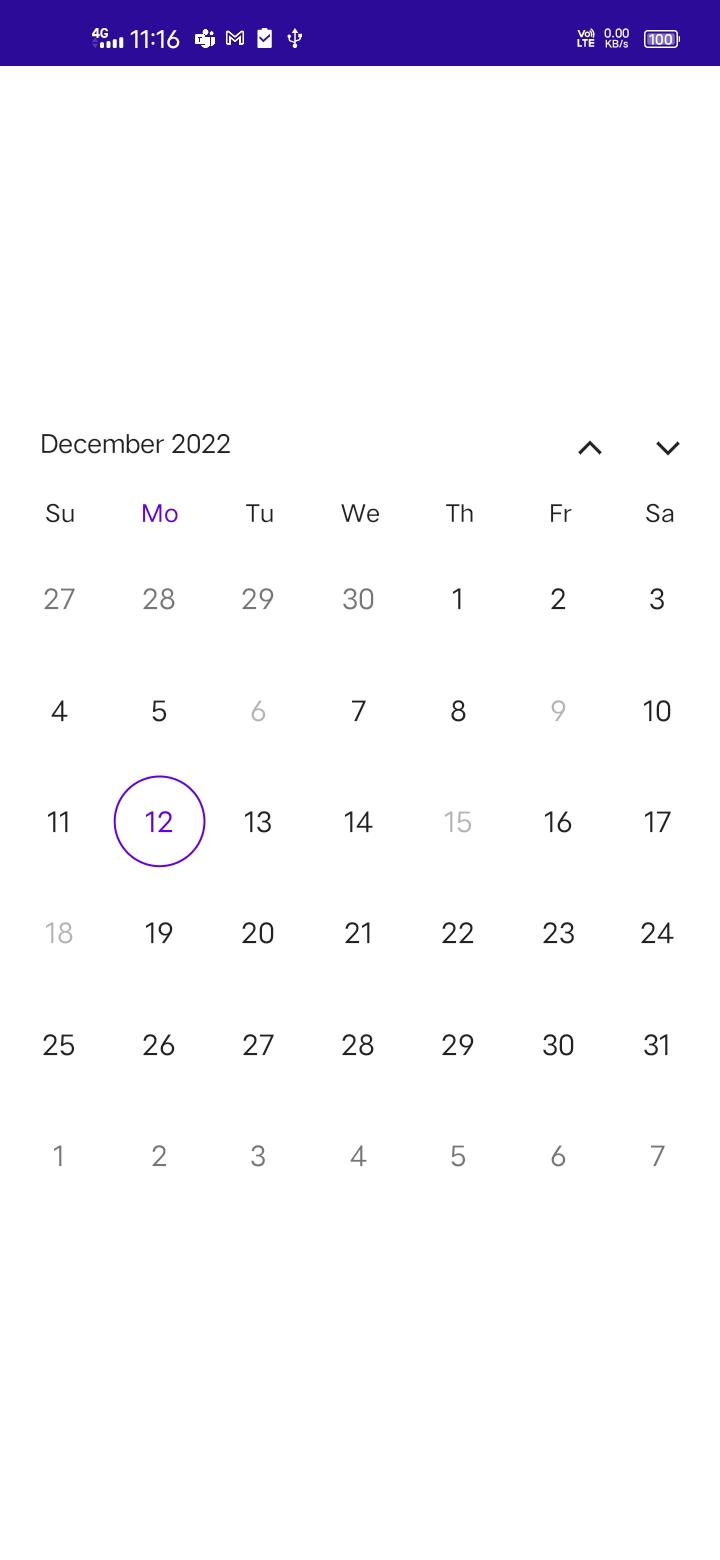
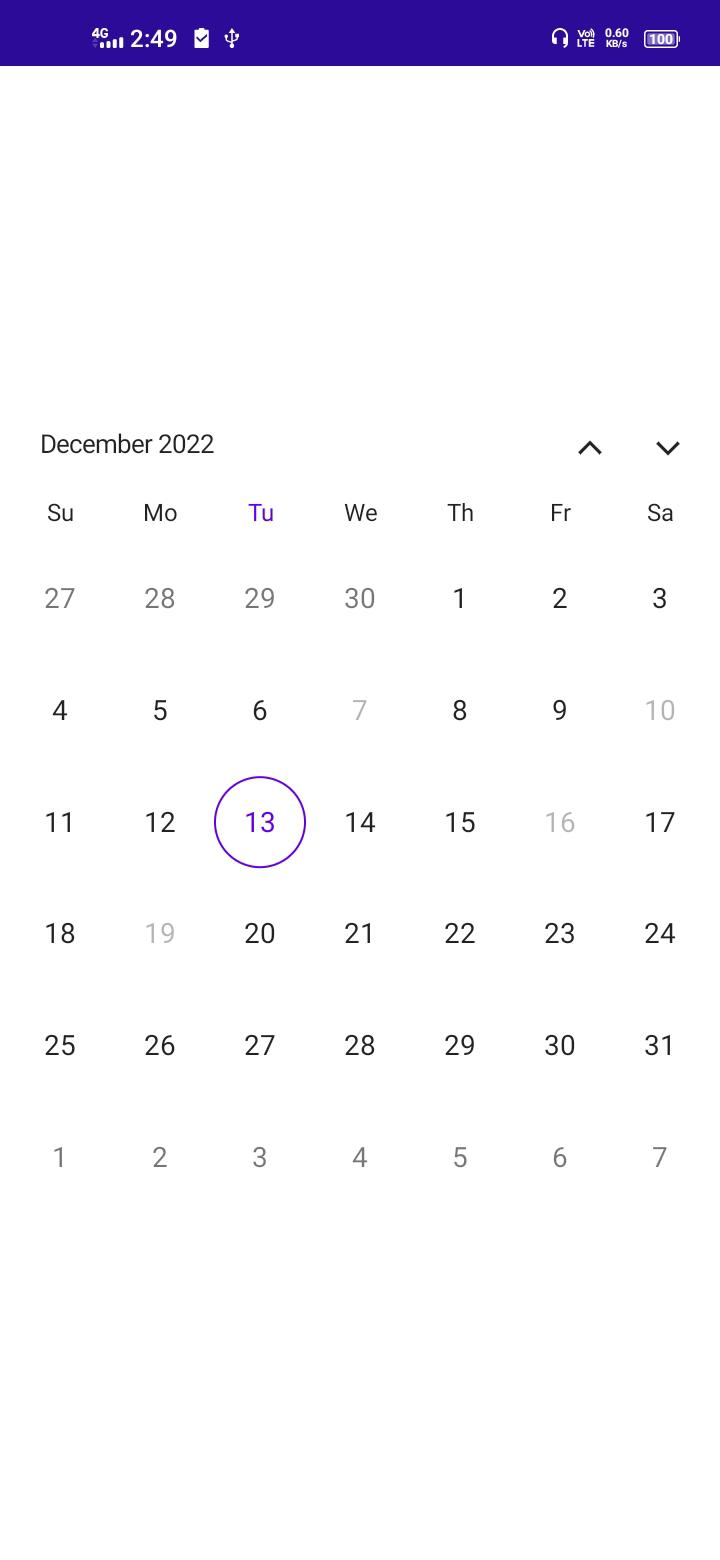
MAUI-3660-Images replaced

diff --git a/MAUI/Calendar/overview.md b/MAUI/Calendar/overview.md
@@ -9,70 +9,72 @@ documentation: ug
 
 # Overview of .NET MAUI Calendar (SfCalendar)
 
-The Syncfusion .NET MAUI Calendar (SfCalendar) is a lightweight calendar control that allows user to easily select a single, multiple and a range of dates. It provides month, year, decade, and century view options to quickly navigate to the desired date. It supports minimum, maximum, enable past dates and disabled dates to restrict date selection.
+The Syncfusion .NET MAUI Calendar (SfCalendar) is a lightweight calendar control that allows user to easily select a Single, Multiple and a Range of dates. It offers Month, Year, Decade, and Century view options to quickly navigate to the desired date. To restrict the date selection by using the minimum, maximum, enable past dates, and disabled dates.
 
 
 ## Key features
 
-* **Multiple calendar views**: Display month, year, decade, and century views that allows user to easily select and navigate between built-in views. Supports programmatic navigation.
+* **Multiple calendar views**: The user can easily select and switch between the built-in month, year, decade, and century views by displaying them. Supports programmatic navigation.
 
-{% multiple_column %}
-{% column %}
-![monthview-in-maui-calendar](images/overview/MultipleViews/monthview-in-maui-calendar.png)
-{% endcolumn}
-{% column %}
-![yearview-in-maui-calendar](images/overview/MultipleViews/yearview-in-maui-calendar.png)
-{% endcolumn}
-{% column %}
-![decadeview-in-maui-calendar](images/overview/MultipleViews/decadeview-in-maui-calendar.png)
-{% endcolumn}
-{% column %}
-![centuryview-in-maui-calendar](images/overview/MultipleViews/centuryview-in-maui-calendar.png)
-{% endcolumn}
-{% endmultiple_column %}
+   {% multiple_column %}
+   {% column %}
+   ![monthview-in-maui-calendar](images/overview/MultipleViews/monthview-in-maui-calendar.png)
+   {% endcolumn}
+   {% column %}
+   ![yearview-in-maui-calendar](images/overview/MultipleViews/yearview-in-maui-calendar.png)
+   {% endcolumn}
+   {% column %}
+   ![decadeview-in-maui-calendar](images/overview/MultipleViews/decadeview-in-maui-calendar.png)
+   {% endcolumn}
+   {% column %}
+   ![centuryview-in-maui-calendar](images/overview/MultipleViews/centuryview-in-maui-calendar.png)
+   {% endcolumn}
+   {% endmultiple_column %}
 
-* **Quick navigation**: You can easily navigate to the different views in the SfCalendar.
+* **Quick navigation**: You can easily navigate to the different view modes in the SfCalendar.
 
-* **Allow view Navigation**: Allows you to navigate through tap interaction on the cell or header when it is enabled. Restrict users from navigating to different calendar views and allows you to select the dates in the year, decade and century view when this property is not enabled.
+* **Allow view Navigation**: Allows you to navigate to the different view modes through tap interaction on the cell or header when it is enabled. Restrict users from navigating to differnt calendar views and allows you to select the dates in the year, decade and century view cells when this property is not enabled.
 
-{% multiple_column %}
-{% column %}
-![monthview-range-selection-in-maui-calendar](images/overview/SelectionWhileAllowViewNavigation/monthview-range-selection-in-maui-calendar.png)
-{% endcolumn}
-{% column %}
-![yearview-range-selection-in-maui-calendar](images/overview/SelectionWhileAllowViewNavigation/yearview-range-selection-in-maui-calendar.png)
-{% endcolumn}
-{% column %}
-![decadeview-range-selection-in-maui-calendar](images/overview/SelectionWhileAllowViewNavigation/decadeview-range-selection-in-maui-calendar.png)
-{% endcolumn}
-{% column %}
-![centuryview-range-selection-in-maui-calendar](images/overview/SelectionWhileAllowViewNavigation/centuryview-range-selection-in-maui-calendar.png)
-{% endcolumn}
-{% endmultiple_column %}
+   {% multiple_column %}
+   {% column %}
+   ![monthview-range-selection-in-maui-calendar](images/overview/SelectionWhileAllowViewNavigation/monthview-range-selection-in-maui-calendar.png)
+   {% endcolumn}
+   {% column %}
+   ![yearview-range-selection-in-maui-calendar](images/overview/SelectionWhileAllowViewNavigation/yearview-range-selection-in-maui-calendar.png)
+   {% endcolumn}
+   {% column %}
+   ![decadeview-range-selection-in-maui-calendar](images/overview/SelectionWhileAllowViewNavigation/decadeview-range-selection-in-maui-calendar.png)
+   {% endcolumn}
+   {% column %}
+   ![centuryview-range-selection-in-maui-calendar](images/overview/SelectionWhileAllowViewNavigation/centuryview-range-selection-in-maui-calendar.png)
+   {% endcolumn}
+   {% endmultiple_column %}
 
 * **Enable Past Dates**: Indicates whether the dates are enabled or disabled before the today date. If this property is disabled, you cannot able to select the dates before the today date and the dates before the today date are considered as disabled dates.
 
    ![enable-past-date-in-maui-calendar](images/overview/enable-past-date-in-maui-calendar.png)
 
-* **Date selection**: The Selection mode is specified in the calendar property enumeration, allows you to select single, multiple, and a range of dates through interaction. It also supports programmatic selection.
+* **Date selection**: The Selection mode is specified in the calendar property enumeration, allows you to select Single, Multiple, and a Range of dates through interaction. It also supports programmatic selection.
 
-{% multiple_column %}
-{% column %}
-![monthview-single-selection-in-maui-calendar](images/overview/DateSelection/monthview-single-selection-in-maui-calendar.png)
-{% endcolumn}
-{% column %}
-![monthview-multiple-selection-in-maui-calendar](images/overview/DateSelection/monthview-multiple-selection-in-maui-calendar.png)
-{% endcolumn}
-{% column %}
-!![monthview-range-selection-in-maui-calendar](images/overview/DateSelection/monthview-range-selection-in-maui-calendar.png)
-{% endcolumn}
-{% endmultiple_column %}
+   {% multiple_column %}
+   {% column %}
+   ![monthview-single-selection-in-maui-calendar](images/overview/DateSelection/monthview-single-selection-in-maui-calendar.png)
+   {% endcolumn}
+   {% column %}
+   ![monthview-multiple-selection-in-maui-calendar](images/overview/DateSelection/monthview-multiple-selection-in-maui-calendar.png)
+   {% endcolumn}
+   {% column %}
+   !![monthview-range-selection-in-maui-calendar](images/overview/DateSelection/monthview-range-selection-in-maui-calendar.png)
+   {% endcolumn}
+   {% endmultiple_column %}
 
-* **Limit the date selection range**: By setting the minimum and maximum days, you can only able to select the date within the minimum and maximum number of days(span of days).
+* **Limit the date selection range**: You can select a date from a range of dates between a minimum and maximum number of days by setting the minimum and maximum dates (span of days).
 
-   ![Limit the date selection range Calendar](images/overview/min_max_date.png)
+   ![monthview-min-and-max-date-in-maui-calendar](images/overview/monthview-min-and-max-date-in-maui-calendar.png)
 
-* **Change first day of week**: You Can customize the first day of the week as needed. The default first day of the week is Sunday.
+* **Change first day of week**: You can customize the first day of the week as needed. The default first day of the week is Sunday.
+
+   ![custom-first-day-of-week-in-maui-calendar](images/overview/custom-first-day-of-week-in-maui-calendar.png)
 
 * **Selectable Day Predicate**: This property decides whether the cell is selectable or not in calendar and if you want to disable the particular date in a calendar. Easily prevent the selection of weekends by disabling them.
 
@@ -82,10 +84,10 @@ The Syncfusion .NET MAUI Calendar (SfCalendar) is a lightweight calendar control
 
    ![special-dates-and-weekend-dates-in-maui-calendar](images/overview/special-dates-and-weekend-dates-in-maui-calendar.png)
 
-* **Right to left (RTL)** - You can use the Right-to-left property to change the text direction in the Calendar. Supports users for working in RTL languages like Hebrew and Arabic.
+* **Right to left (RTL)**: The Calendar's text direction can be changed by using the Right-to-left property. Enables user to work with RTL languages, such as Hebrew and Arabic.
 
    ![mothview-rtl-in-maui-calendar](images/overview/mothview-rtl-in-maui-calendar.png)
 
-* **Globalization** - Displays the current date and time based on the globalized date and time formats. You can able to change the culture of the calendar.
+* **Globalization**: Displays the current date and time based on the globalized date and time formats. You can able to change the culture of the calendar.
 
-   ![globalization-in-maui-calendar](images/overview/globalization-in-maui-calendar.png)
+   ![monthview-globalization-in-maui-calendar](images/overview/monthview-globalization-in-maui-calendar.png)
